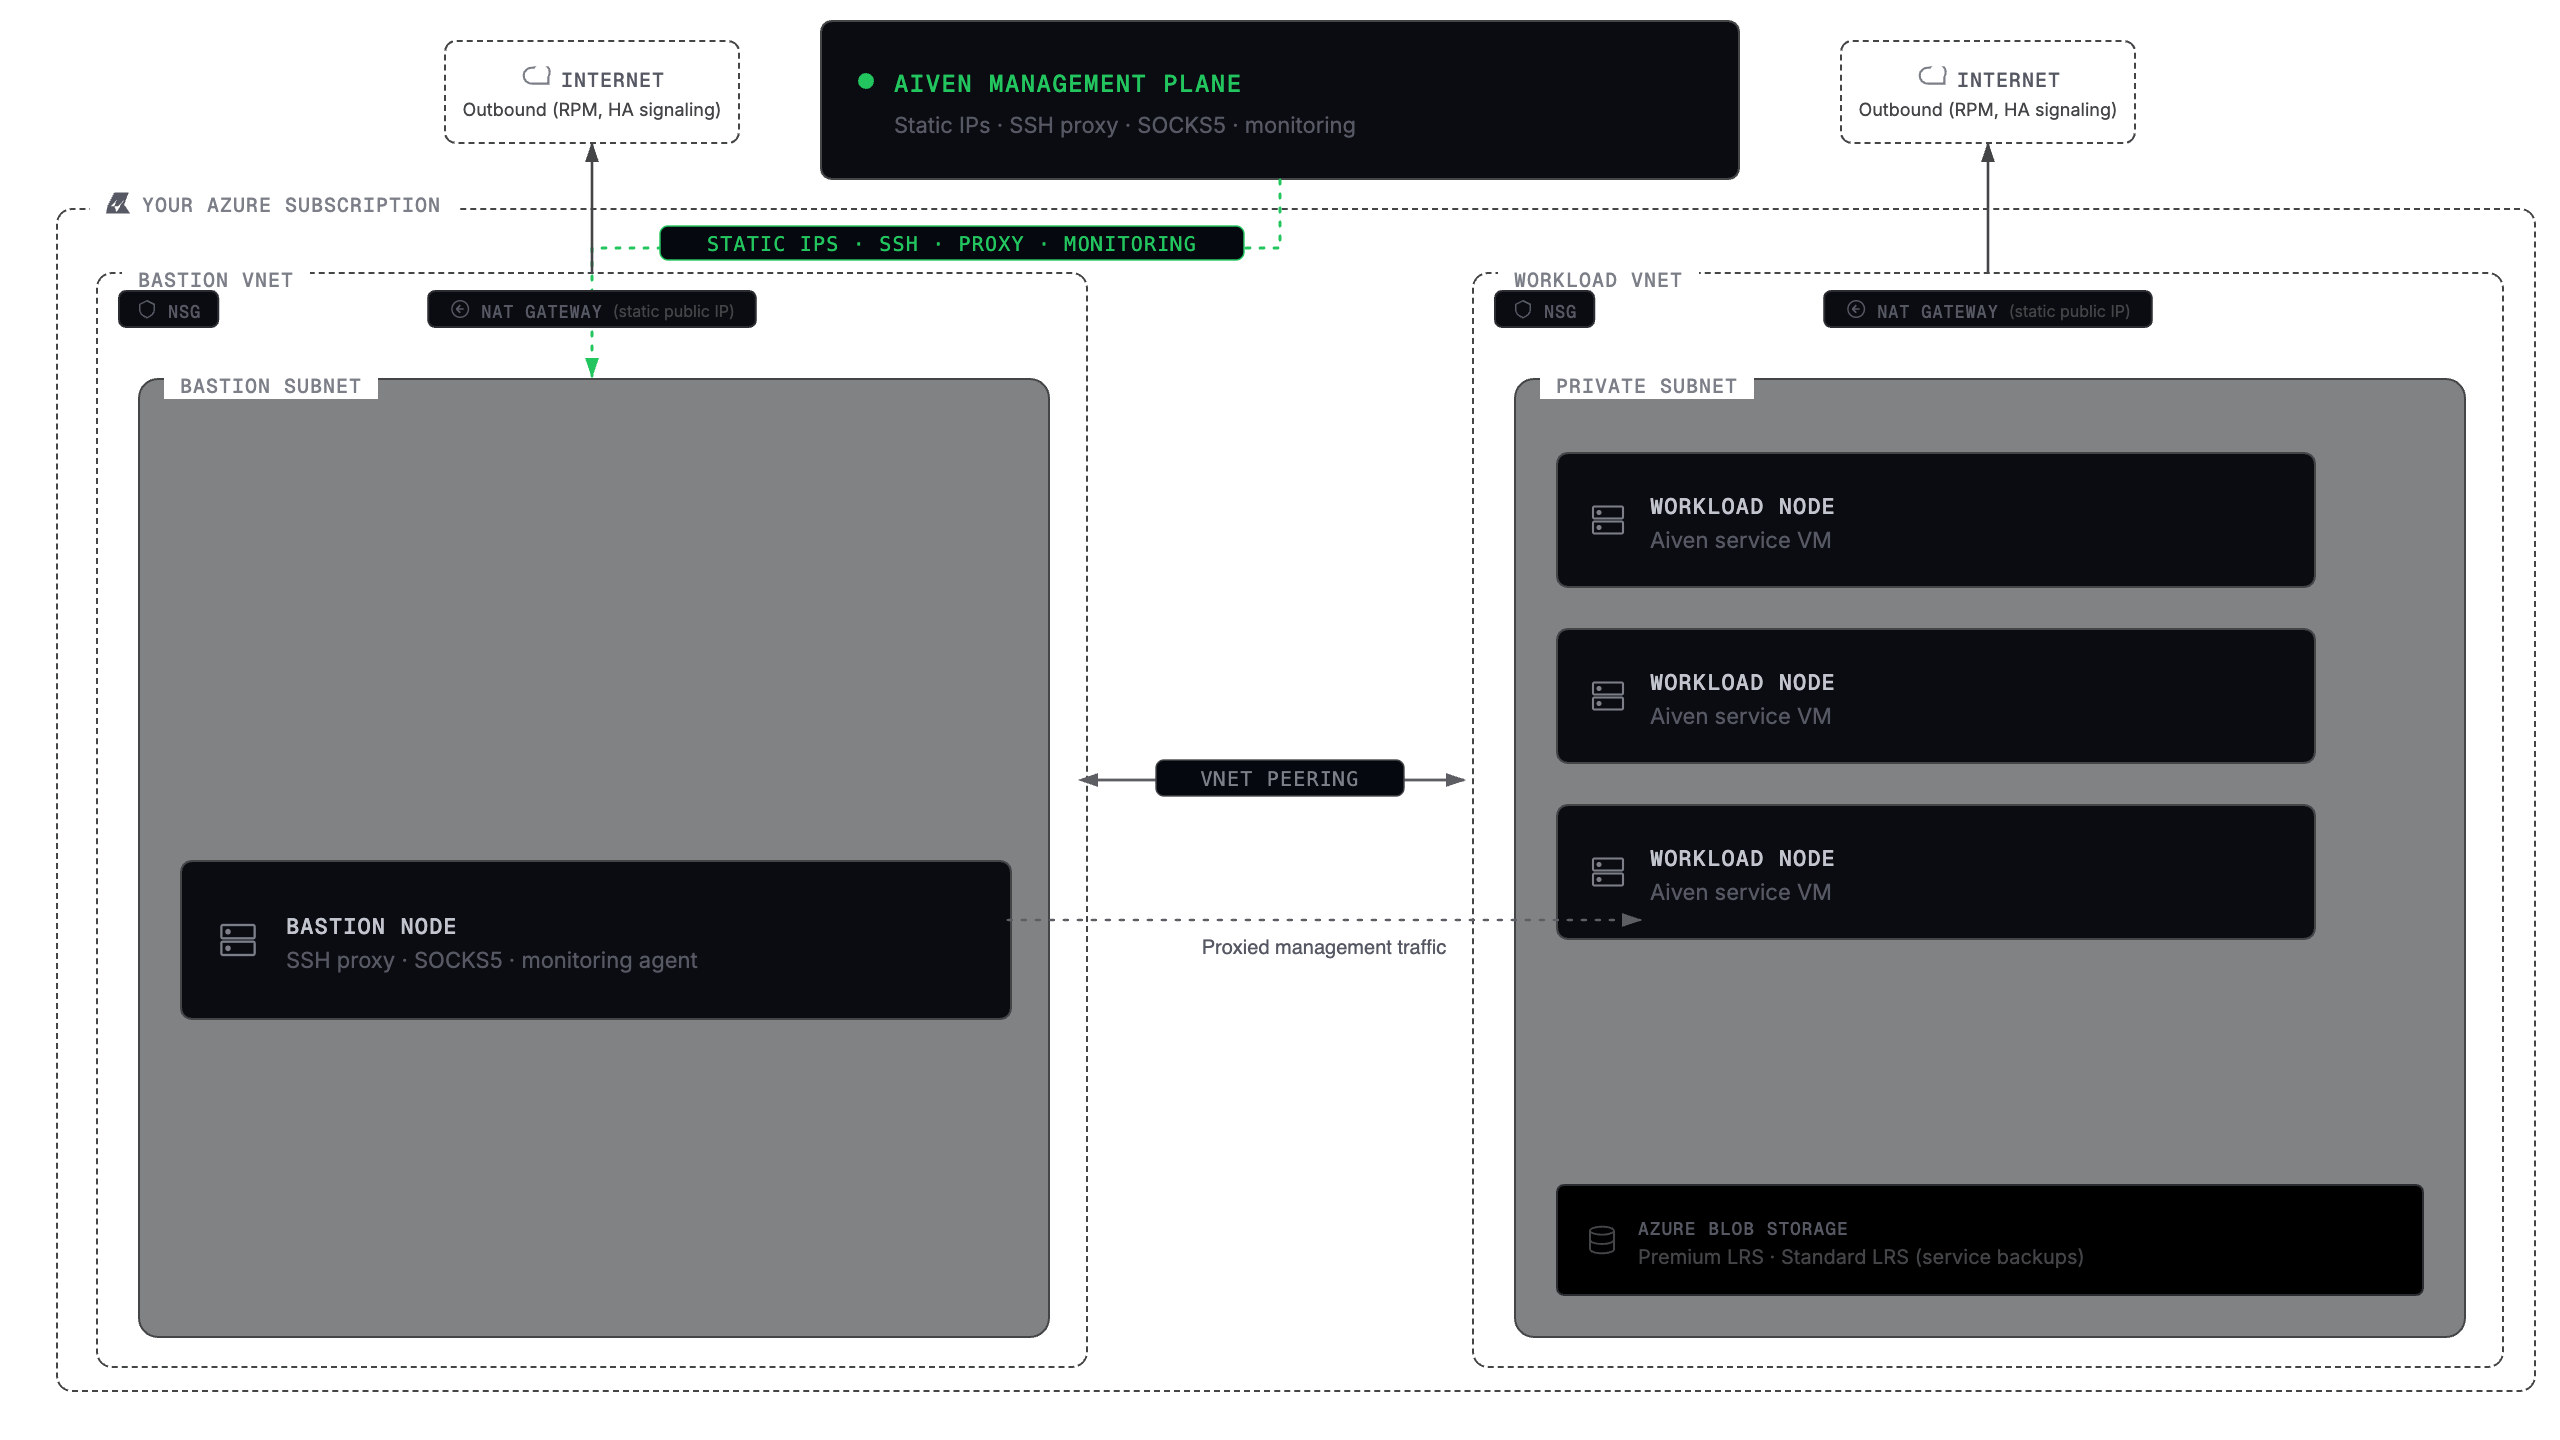
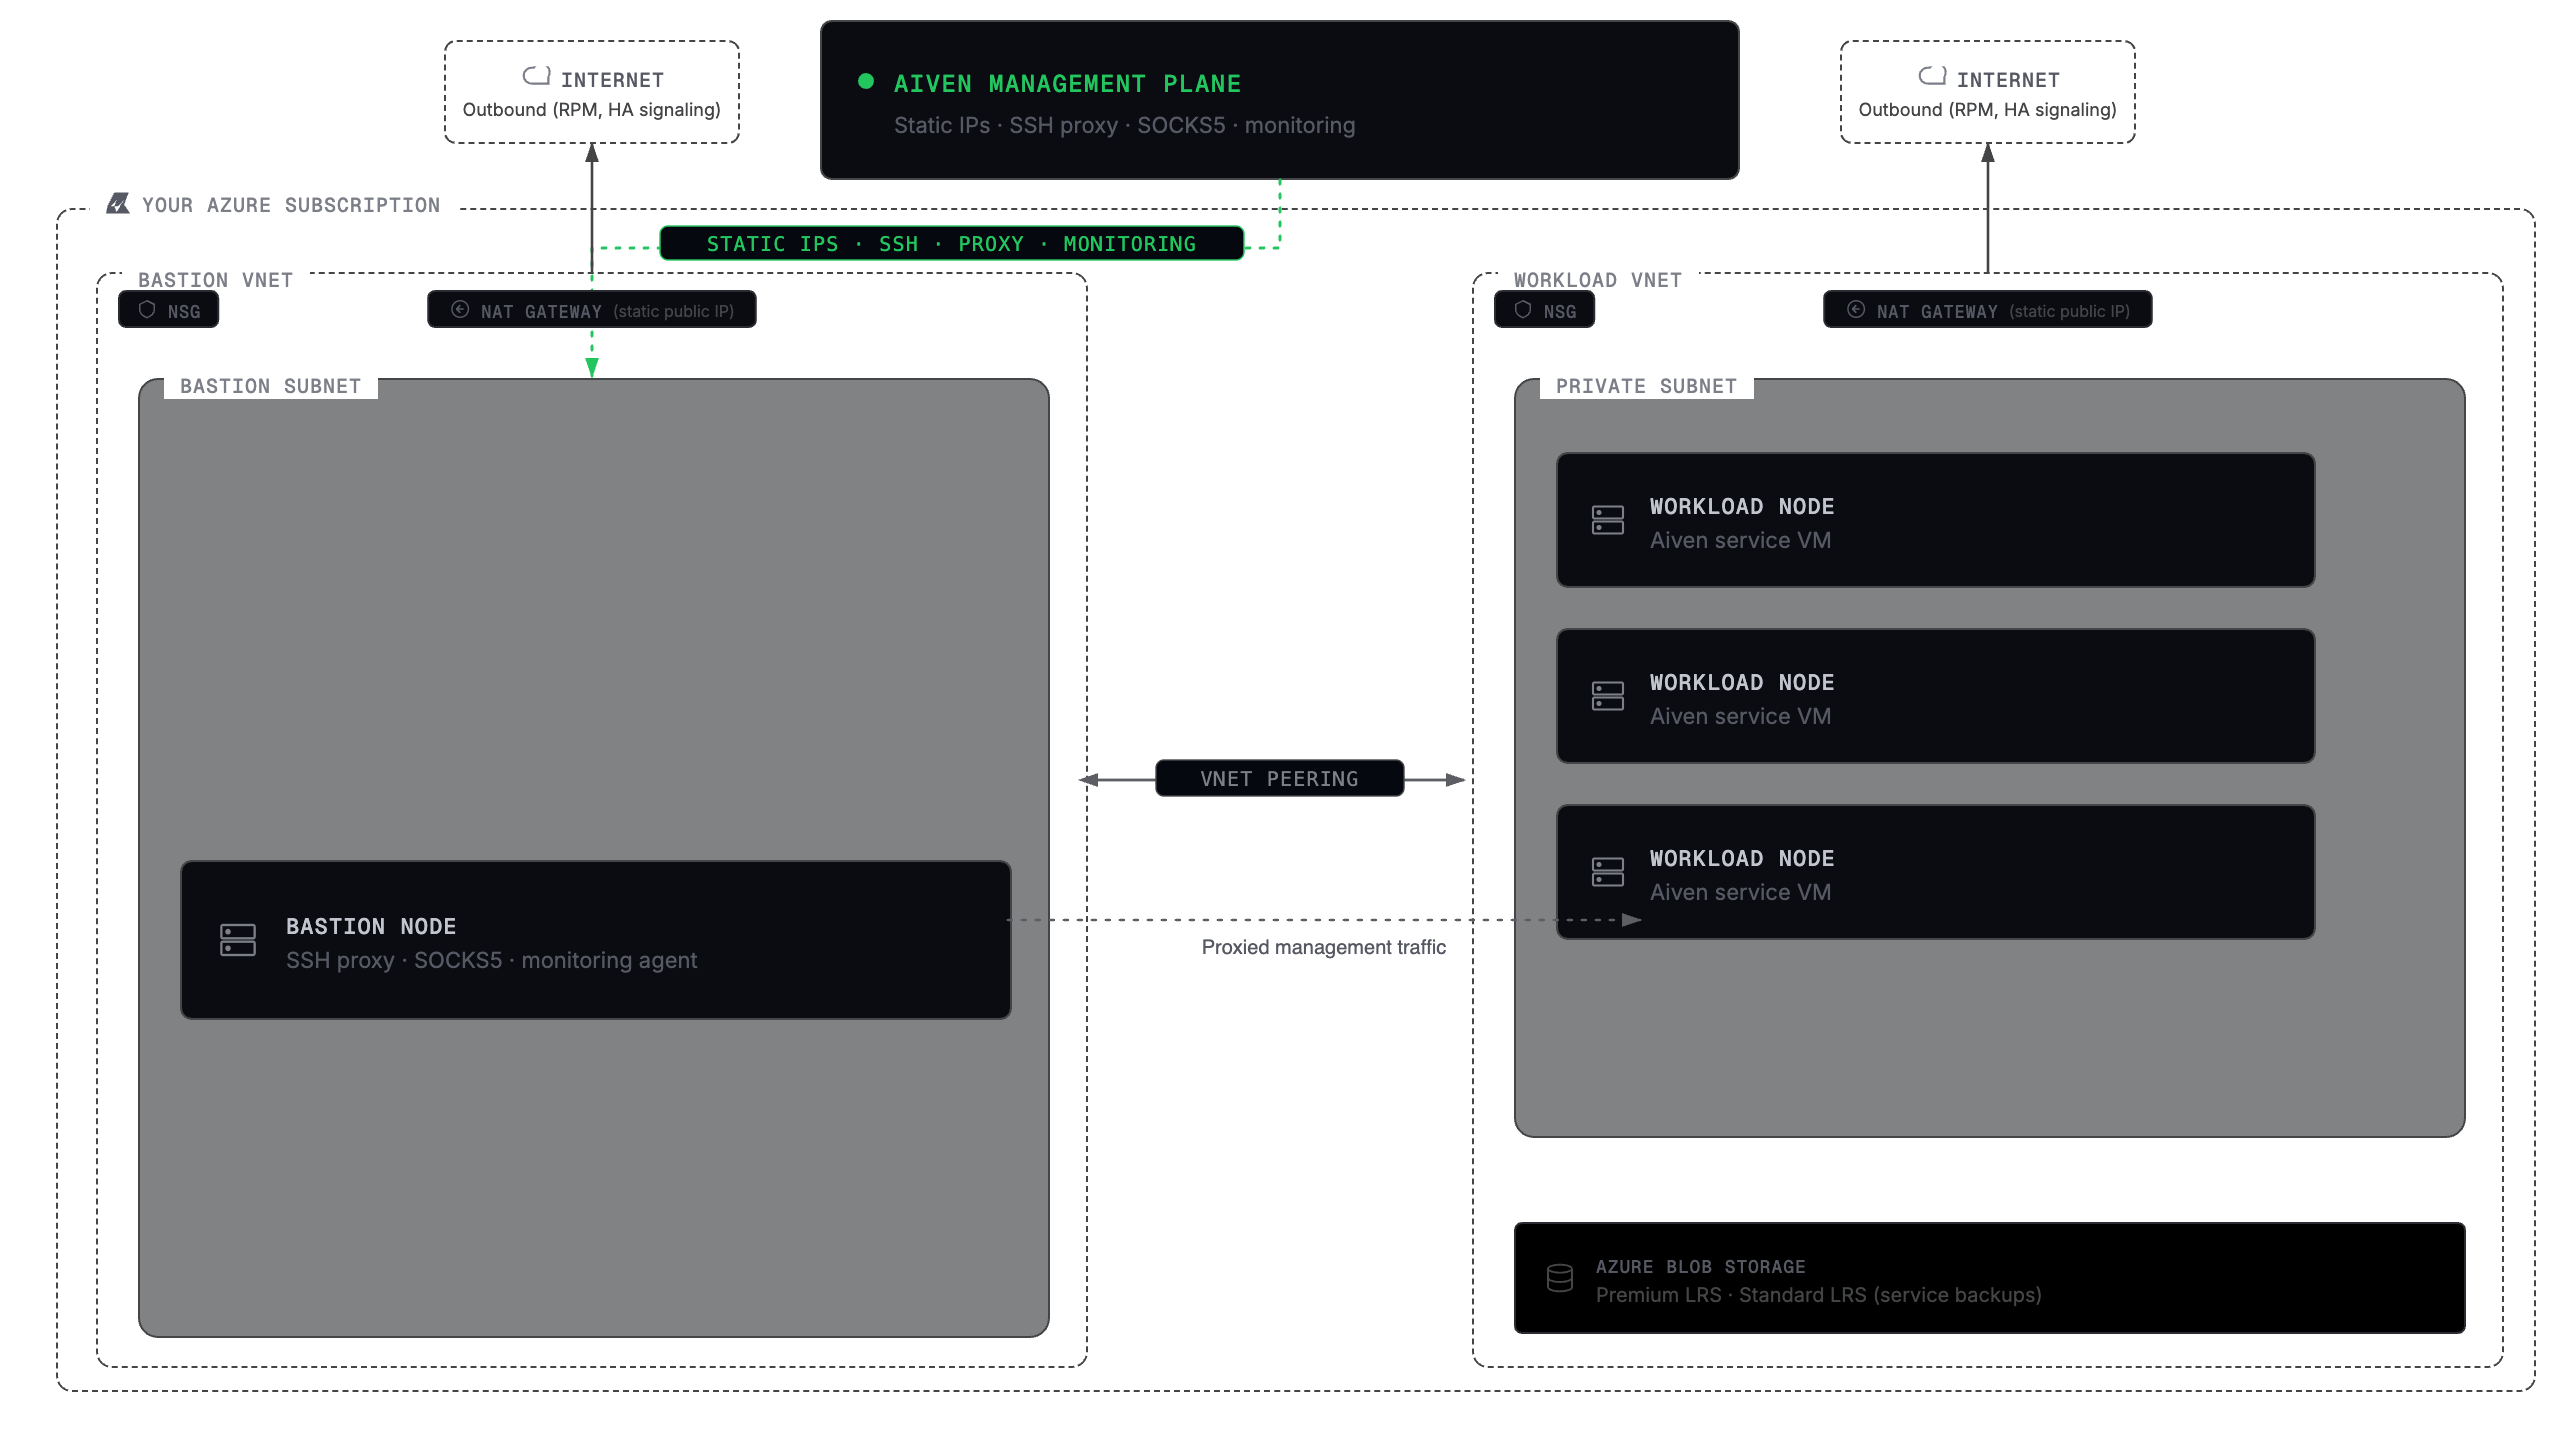
diagram

Changed region(s): [[0.5938, 0.7812, 0.9688, 0.9375]]

diff --git a/docs/platform/concepts/byoc.md b/docs/platform/concepts/byoc.md
@@ -285,22 +285,22 @@ directly. To restrict access to your service, you can use the
 In the Azure standard deployment model, two separate Virtual Networks are created in your
 Azure subscription within a particular cloud region:
 
-- **Bastion VNet**: Contains the bastion node subnet with the bastion host.
-- **Workload VNet**: Contains the workload nodes (your Aiven services) in a privately
-  addressed subnet.
+- **Bastion VNet**: Contains a **Bastion subnet** with the bastion host.
+- **Workload VNet**: Contains a **Private subnet** with the workload nodes (your Aiven
+  services).
 
-The two VNets are connected via **VNet peering**. Aiven accesses the workload VNet from
-a static IP address and routes traffic through a proxy for additional security. To
-accomplish this, Aiven uses a bastion host (**Bastion node**) in the Bastion VNet,
-logically separated from the Aiven services you deploy. The service VMs reside in a
-privately addressed subnet and are accessed by the Aiven management plane via the
-bastion. They are not accessible from the internet.
+The two VNets are connected via **VNet peering**. Aiven accesses the **Bastion VNet**
+from static IP addresses and routes traffic through a proxy for additional security. To
+accomplish this, Aiven uses a bastion host (**Bastion node**) in the Bastion subnet,
+logically separated from the Aiven services you deploy. The service VMs reside in the
+**Private subnet** and are accessed by the Aiven management plane via the bastion. They
+are not accessible from the internet.
 
 **Network Security Groups (NSGs)** control inbound and outbound traffic on each VNet.
 Each VNet has its own **NAT gateway** for outbound internet access.
 
-Two **Azure Blob Storage** accounts (Premium LRS and Standard LRS) are created in your
-subscription for service backups and data storage.
+**Azure Blob Storage** accounts (Premium LRS and Standard LRS) are provisioned in your
+Azure subscription for service backups.
 
 :::note
 Although the bastion host and the service nodes reside in the VNets under your
@@ -310,17 +310,6 @@ The bastion and workload nodes require outbound access to the internet to work p
 (supporting HA signaling to the Aiven management node and RPM download from Aiven
 repositories).
 :::
-
-</TabItem>
-<TabItem value="8" label="Azure BYOC public">
-
-In the Azure public deployment model, a Virtual Network (**Workload VNet**) for your
-Aiven services is created within a particular cloud region in your Azure subscription.
-Aiven accesses this VNet through the internet. Service VMs reside in a publicly addressed
-subnet (**Public subnet**), and Aiven services can be accessed through the public
-internet: the Aiven control plane connects to the nodes using the public address, and
-the Aiven management plane can access the service VMs directly. To restrict access to
-your service, you can use the [IP filter](/docs/platform/howto/restrict-access).
 
 </TabItem>
 </Tabs>